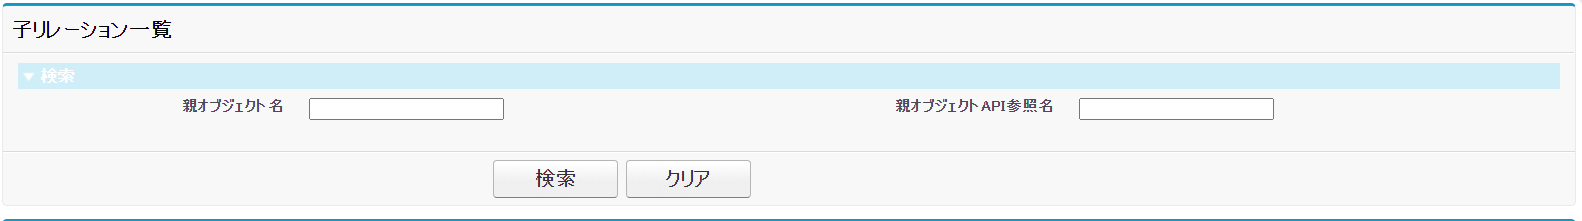
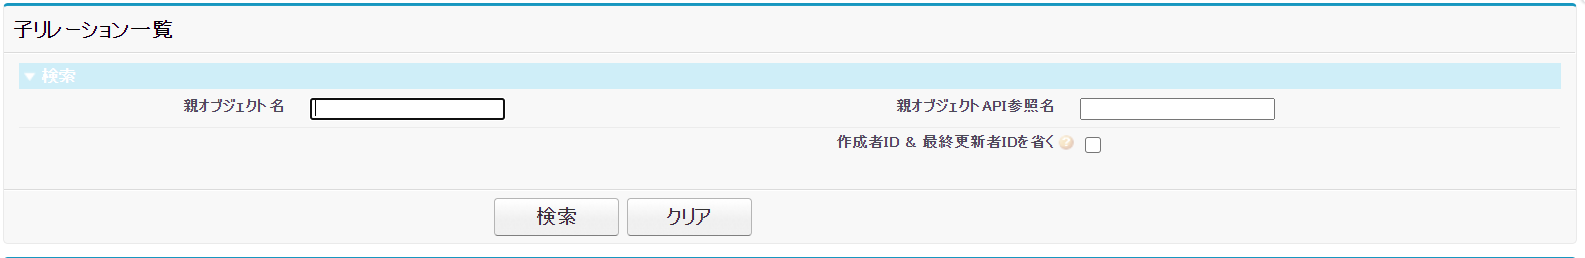
More than 2000 data searchable&Written a README.md

diff --git a/README.md b/README.md
@@ -1,8 +1,8 @@
 # **子リレーション検索画面**
 Workbenchを使用すれば、親オブジェクトに関連する子リレーションを確認することができますが、少し使いづらい点があったので作成してみました🔨🔧  
-良ければ、お使いください💁♂
-***
-You can change it to English by clicking the link  
+良ければ、お使いください💁♂  
+  
+👇 You can change it to English by clicking the link.  
 - [English](./README-en.md)
 
 ***
@@ -10,6 +10,9 @@ You can change it to English by clicking the link
 ![検索画面](/images/image01.png)
 - 親オブジェクト名
 - 親オブジェクトAPI参照名
+- 作成者ID & 最終更新者IDを省く  
+※ヘルプテキスト：ユーザ(User)検索時にお使いください。
+
 ### 【検索結果】
 ![検索結果](/images/image02.png)
 - オブジェクト名
@@ -18,3 +21,12 @@ You can change it to English by clicking the link
 - 項目API参照名
 - 子リレーション名
 - カスケード削除
+  
+***
+## ユーザオブジェクト検索
+ユーザオブジェクトは、子リレーションの件数が多くなってしまうため検索条件として、  
+「作成者ID & 最終更新者IDを省く」チェックボックス✅を用意しております。
+### 【作成者ID & 最終更新者IDを省く　チェックボックスなし】
+![ユーザオブジェクト検索条件なし](/images/image03.png)
+### 【作成者ID & 最終更新者IDを省く　チェックボックスあり】
+![ユーザオブジェクト検索条件あり](/images/image04.png)

diff --git a/README-en.md b/README-en.md
@@ -4,15 +4,26 @@ Please use it if you like.💁♂
 
 ***
 ### **【Search】**
-![検索画面](/images/image01.png)
+![Search](/images/image01.png)
 - Parent object Name
 - Parent object API Name
+- Omit Create By ID & Last Modified ID  
+※Helpe text:use for user search.
 
 ### **【Search Result】**
-![検索結果](/images/image02.png)
+![Search Result](/images/image02.png)
 - Object Name
 - Object API Name
 - Field name
 - Field API Name
 - Child Relation Name
 - Cascade Delete
+  
+***
+## User object search
+Since the number of child relations is large for the user object,  
+ the "Omit Create By ID & Last Modified ID" checkbox✅ is provided as a search condition.
+### 【Omit Create By ID & Last Modified ID　checkbox "false"】
+![checkbox 'false'](/images/image03.png)
+### 【Omit Create By ID & Last Modified ID　checkbox "true"】
+![checkbox 'true'](/images/image04.png)
